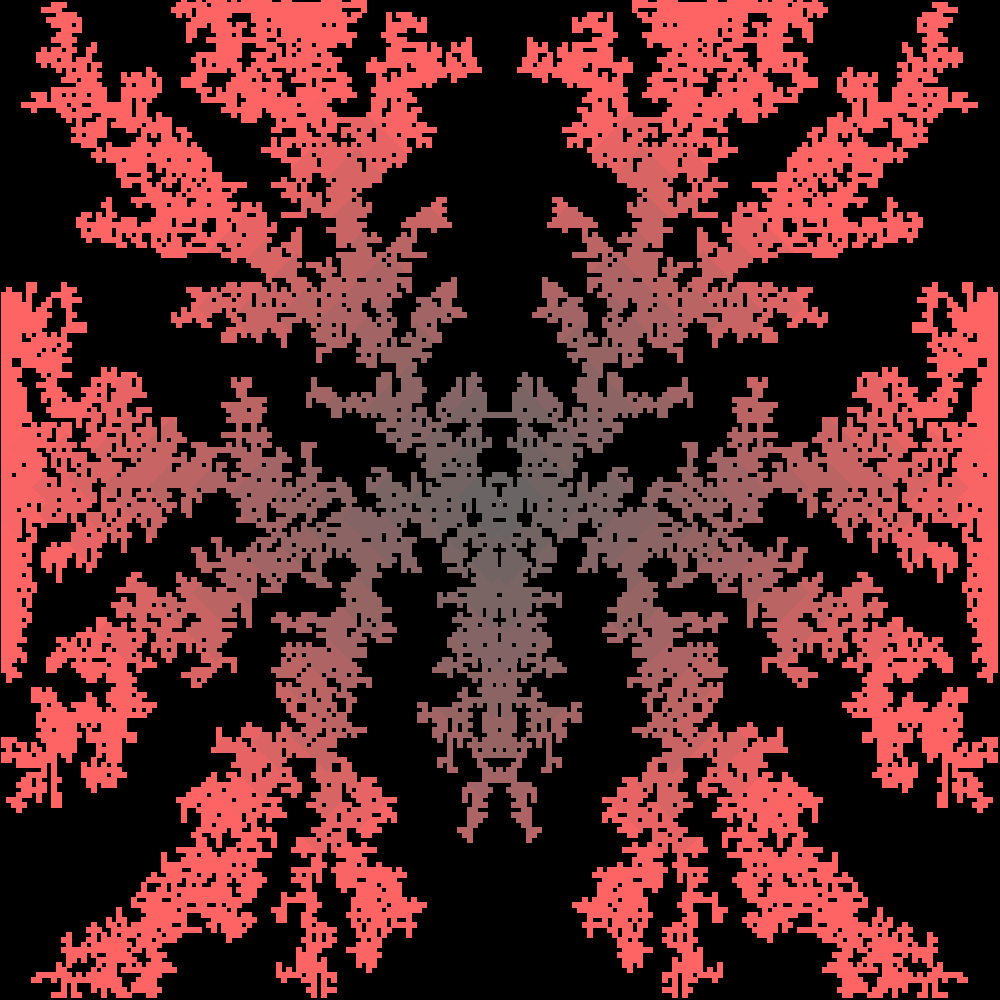
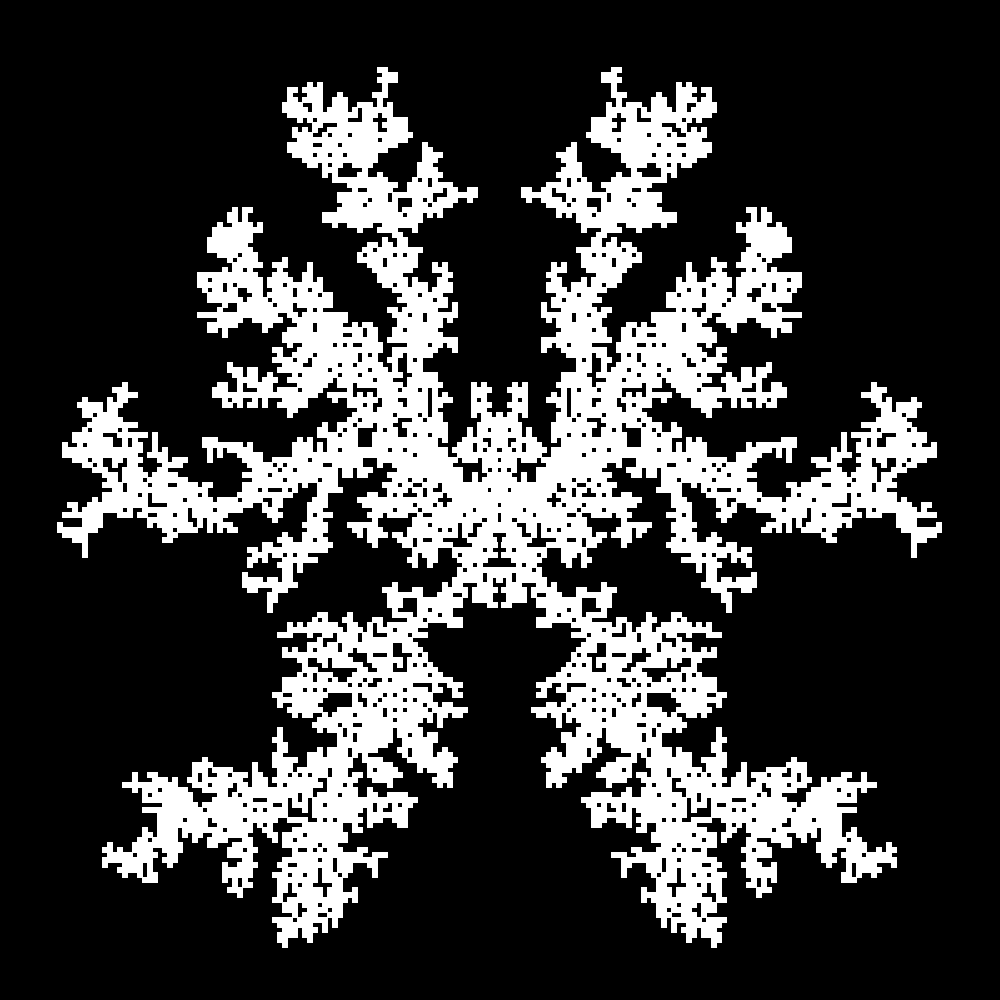
nuevas imagenes

diff --git a/flood_fill.py b/flood_fill.py
@@ -4,21 +4,21 @@ from tqdm import tqdm
 import numpy as np
 import cv2
 
-import poisson_disc as pd
 
 def get_random_color() -> tuple:
     return (int(np.random.uniform(100, 200)), int(np.random.uniform(100, 200)), int(np.random.uniform(100, 200)))
 
 
-def gaussian_color() -> tuple:
-    random = np.random.normal(128, 100, 3)
-    return  (int(random[0]), int(random[1]), int(random[2]))
+def gaussian_color(distr = (1,1,1)) -> tuple:
+    random = np.random.normal(128, 80, 3)
+    
+    return  (int(random[0]*distr[0]), int(random[1]*distr[1]), int(random[2]*distr[2]))
 
 
 # Normal distribution
 def get_random_coordinates( limits : int) -> list:
     return  (
-        abs(int(np.random.uniform(0, limits))), abs(int(np.random.uniform(0, limits))) 
+        abs(int(np.random.uniform(0, limits-1))), abs(int(np.random.uniform(0, limits-1))) 
     )
 
 
@@ -37,6 +37,8 @@ move_map = [(0, 1),  (1, 0),  (1, 1),
             (0, -1), (-1, 0), (-1, -1), 
             (1, -1), (-1, 1) ]
     
+    
+
 def flood_fill(seeds : list, limits : int, im : Image) -> None:
     tree =  [[0 for i in range(limits)] for j in range(limits)]
             
@@ -47,19 +49,21 @@ def flood_fill(seeds : list, limits : int, im : Image) -> None:
         tree[x][y] = 1
         im.putpixel((x, y), color)
             
-            
-        moves = [move_map[randint(0,7)] for i in range(4)]
+        # Random walk - choose 4 random directions
+        moves = [move_map[randint(0,39)% 8] for i in range(4)]
 
         for dx, dy in moves:
             if not is_limit(x+ dx, y +dy, limits)  and tree[x+dx][y+dy] == 0:
                 
                 tree[x+dx][y+dy] = 1
 
-                if step % 20 == 0: 
+                if step >= 100 and step % 20 == 0: 
                     
-                    ncolor = gaussian_color()
+                    ncolor = gaussian_color((.1, .75, .05))
                     queue.append((x+dx, y+dy,step+1, mix_colors(color, ncolor )))
-
+                elif step < 100 and step % 10 == 0: 
+                    ncolor = gaussian_color((.9, .9, .05))
+                    queue.append((x+dx, y+dy,step+1, mix_colors(color, ncolor )))
                 else: 
                     queue.append((x+dx, y+dy,step+1, color))
             
@@ -68,7 +72,7 @@ def flood_fill(seeds : list, limits : int, im : Image) -> None:
             
 
 
-
+# This functions fills the pixel holes where the random walk did not reach
 def fill_holes(image: Image , limits : int) -> Image:
     for i in range(limits):
         for j in range(limits):
@@ -89,20 +93,20 @@ def fill_holes(image: Image , limits : int) -> Image:
 
 
 if __name__ == "__main__":
-    limits = 500
-    size = 5
+    limits = 1000
+    size = 2
     np.random.seed()
     im = Image.new('RGB', (limits, limits), (0, 0, 0))
 
-    seeds = [(get_random_coordinates(limits=limits), gaussian_color()) for _ in range(size)]   
-
+    #seeds = [(get_random_coordinates(limits=limits), gaussian_color()) for _ in range(size)]   
+    seeds = [((200, 800), (255,255,0))]
 
     flood_fill(seeds, limits, im)
-    im.show()
+    #im.show()
 
     fill_holes(im, limits=limits)
 
-    im.show()
+    #im.show()
 
     im.save('image.png')
 

diff --git a/l_system.py b/l_system.py
@@ -8,7 +8,7 @@ import re
 def l_system(axiom : str, rules : dict, iterations : int) -> str:
     new_axiom = ""
     for _ in range(iterations):
-        new_axiom = "".join([rules[c] if c in rules else c for c in axiom])
+        new_axiom = "".join([rules[c][randint(0, len(rules[c])-1)] if rules.get(c) else c for c in axiom])
         axiom = new_axiom
     return axiom
 
@@ -18,13 +18,15 @@ def l_system(axiom : str, rules : dict, iterations : int) -> str:
 
 def draw_l_system(image: Image, 
                   axiom : str, 
+                  seed : tuple = (500, 500),
+                  length : int = 15,
+                  angle : int = 25.7
                   ) -> Image:
-    x, y = 500, 1000
+    x, y = seed
     stack = []
     draw = ImageDraw.Draw(image)
     init_angle = 270
     
-    length = 10
     #print(axiom)
     for c in axiom:
         if c == "F" or c == "X":
@@ -36,9 +38,9 @@ def draw_l_system(image: Image,
 
 
         elif c == "+":
-            init_angle += 25.7
+            init_angle += angle
         elif c == "-":
-            init_angle -= 25.7
+            init_angle -= angle
         elif c == "[":
             stack.append((x, y, init_angle))
         elif c == "]":
@@ -70,20 +72,39 @@ def draw_l_system(image: Image,
 
 if __name__ == '__main__':
     
-    iterations = 4
-    angle = 25.7
-    length = 20    
+    iterations = 5
+    angle = 22.5
+    length = 35    
     image = Image.new("RGB", (1000, 1000), "white")
     axiom = "X"
     rules = {
-        "F":"FF",
-        "X":"F-[[X]+X]+F[+FX]-X",
+        "F":["FF"],
+        "X":["F-[[X]+X]+F[+FX]-X","F+[[X]-X]-F[-FX]+X"],
     }
     rules_1 = {
-        "F":"FF-[-F+F+F]+[+F-F-F]"
+        "F":["FF-[-F+F+F]+[+F-F-F]"]
     }
     
+    
+    rules_2 = {
+        "F": ["FF"],
+        "X":["[F[-X]F[-X]+X]"]
+    }
+    rules_3 = {
+        "F" : ["FF","F[+F]F[-F]F",
+               "F[+F]F",
+               "F[-F]F",],
+    }
 
-    draw_l_system(image, l_system("F", rules_1, iterations))
+    draw_l_system(image, l_system("X", rules_2, iterations), seed=(300, 1000), length=5, angle=22.5)
+    draw_l_system(image, l_system("X", rules, 4), seed=(750, 1000), length=10, angle=25)
+    draw_l_system(image, l_system("F", rules_3, 5), seed=(500, 1000), length=3, angle=18)
+    #draw_l_system(image, l_system("F", rules_3, 5), seed=(560, 1000),       =3, angle=18)
+    draw_l_system(image, l_system("F", rules_3, 5), seed=(440, 1000), length=3, angle=18)
+    draw_l_system(image, l_system("F", rules_1, 4), seed=(620, 1000), length=10, angle=18)
     image.show()
+    # Erase the background 
     image.save("l_system.png")
+    
+    
+    

diff --git a/square.py b/square.py
@@ -1,0 +1,52 @@
+from PIL import Image
+from reportlab.pdfgen import canvas
+from reportlab.lib.pagesizes import letter
+import sys
+
+from PIL import Image
+
+def increase_dpi(input_image_path, output_image_path, new_dpi):
+    # Open the image file
+    img = Image.open(input_image_path)
+    
+    # Save the image with the new DPI
+    img.save(output_image_path, dpi=(new_dpi, new_dpi))
+    print(f"DPI increased to {new_dpi} and saved to {output_image_path}")
+
+
+
+def image_to_pdf(image_path, pdf_path, dpi=300, padding=10):
+    # Open the image file
+    with Image.open(image_path) as img:
+        # Get image dimensions
+        width, height = img.size
+
+        # Calculate the size in points (1 point = 1/72 inch)
+        # High DPI setting: 1 inch = 300 points
+        width_in_points = (width / dpi) * 72
+        height_in_points = (height / dpi) * 72
+
+        # Add padding
+        padding_in_points = padding * 7200 //2 / dpi
+        pdf_width = width_in_points + 2 * padding_in_points
+        pdf_height = height_in_points + 2 * padding_in_points
+
+        # Create a PDF canvas
+        c = canvas.Canvas(pdf_path, pagesize=(pdf_width, pdf_height))
+
+        # Draw the image on the canvas with padding
+        c.drawImage(image_path, padding_in_points, padding_in_points, width_in_points, height_in_points)
+
+        # Save the PDF file
+        c.save()
+
+if __name__ == "__main__":
+
+    # Example usage
+    input_image_path = "l_system.png"
+    output_image_path = "l_system_dpi.jpg"
+    new_dpi = 300
+
+    increase_dpi(input_image_path, output_image_path, new_dpi)
+
+

diff --git a/dla.py b/dla.py
@@ -50,8 +50,8 @@ def diffusion_limited_agg(image_size: int, seed : tuple ,image: Image):
     
     tree =  [[0 for i in range(image_size)] for j in range(image_size)]
     tree[seed[0]][seed[1]] = 1
-    
-    for _ in tqdm(range(15000)):
+    # 12380
+    for _ in tqdm(range(8000)):
         walker(tree, extreme_random_point(image_size=image_size), image_size)
     
     for i in range(image_size): 
@@ -105,11 +105,11 @@ def gradient_color(image,tree, seed, color) -> tuple:
 
 if __name__ == "__main__":
     image_size = 1000 
-    #image = Image.new("RGB", (image_size, image_size), (0, 0, 0))
+    image = Image.new("RGB", (image_size, image_size), (0, 0, 0))
     seed = (image_size//2, image_size//2)
     
-    image = Image.open("dla_3.png")
-    tree = map_image_to_tree(image=image)
-    #tree = diffusion_limited_agg(image_size, seed, image)
-    gradient_color(image, tree, seed, (100, 100, 100))
+    #image = Image.open("dla_3.png")
+    #tree = map_image_to_tree(image=image)
+    tree = diffusion_limited_agg(image_size, seed, image)
+    #gradient_color(image, tree, seed, (100, 100, 100))
     image.save("dla_4.png")

diff --git a/dpi_expansion.py b/dpi_expansion.py
@@ -1,0 +1,29 @@
+import tempfile
+
+import PIL.Image as Image
+
+def set_image_dpi_resize(image):
+    """
+    Rescaling image to 300dpi while resizing
+    :param image: An image
+    :return: A rescaled image
+    """
+    length_x, width_y = image.size
+    factor = min(1, float(1024.0 / length_x))
+    size = int(factor * length_x), int(factor * width_y)
+    image_resize = image.resize(size, Image.ANTIALIAS)
+    temp_file = tempfile.NamedTemporaryFile(delete=False, suffix='1.png')
+    temp_filename = temp_file.name
+    image_resize.save(temp_filename, dpi=(300, 300))
+    return temp_filename
+    
+
+if __name__ == '__main__':
+    image = Image.open('dla_4.png')
+    set_image_dpi_resize(image)
+
+    
+    
+    
+    
+    
